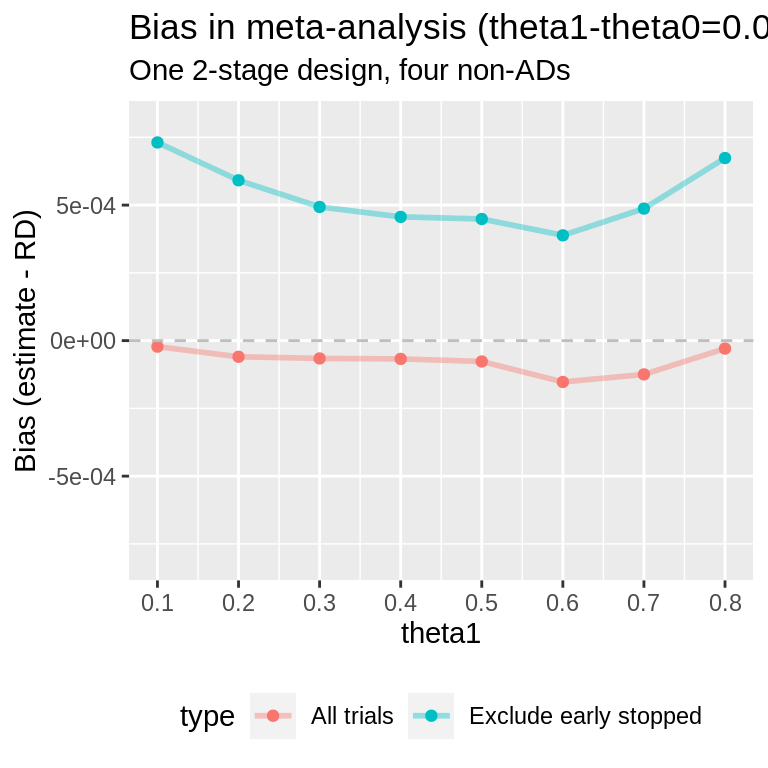
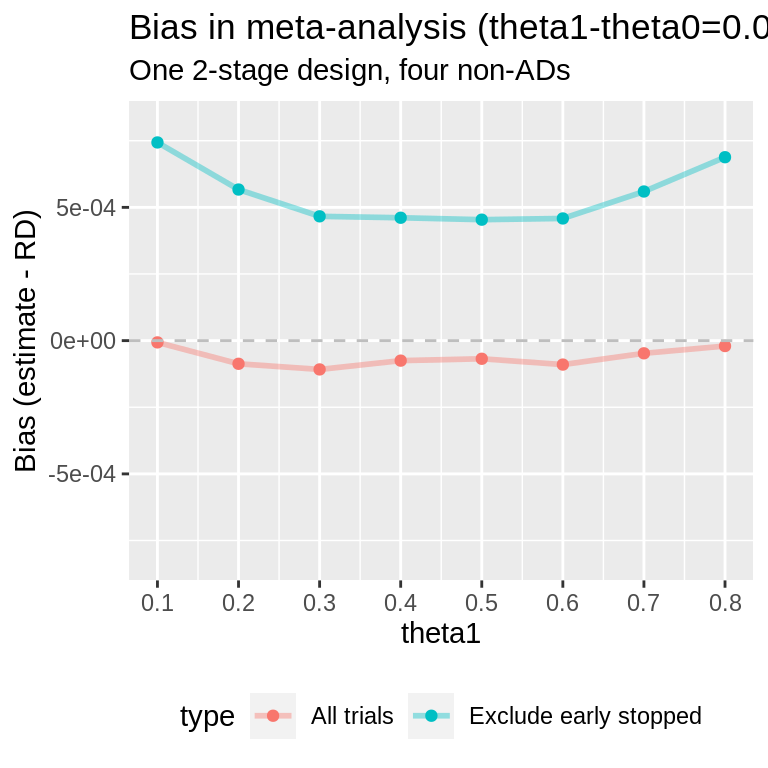
Built site for pwb: 0.0.0.9000@c4ab8c6

diff --git a/articles/GS.html b/articles/GS.html
@@ -92,10 +92,10 @@
 <span>                     nsims<span class="op">=</span><span class="va">nsims</span><span class="op">)</span></span>
 <span>  <span class="va">single.GS</span><span class="op">$</span><span class="va">ests</span><span class="op">[</span>, <span class="fl">1</span><span class="op">:</span><span class="fl">5</span><span class="op">]</span></span>
 <span><span class="co">#&gt;                          nsims    bias mean.SE emp.SE theta</span></span>
-<span><span class="co">#&gt; Stopped early            39253 -0.0453  0.0455 0.0280   0.5</span></span>
-<span><span class="co">#&gt; Complete                 60747  0.0246  0.0421 0.0299   0.5</span></span>
-<span><span class="co">#&gt; All                     100000 -0.0028  0.0435 0.0449   0.5</span></span>
-<span><span class="co">#&gt; All (precision-weghted) 100000 -0.0001  0.0433     NA   0.5</span></span>
+<span><span class="co">#&gt; Stopped early            39401 -0.0450  0.0455 0.0271   0.5</span></span>
+<span><span class="co">#&gt; Complete                 60599  0.0246  0.0421 0.0298   0.5</span></span>
+<span><span class="co">#&gt; All                     100000 -0.0028  0.0435 0.0446   0.5</span></span>
+<span><span class="co">#&gt; All (precision-weghted) 100000 -0.0002  0.0433     NA   0.5</span></span>
 <span>  <span class="fu"><a href="https://rdrr.io/r/base/Round.html" class="external-link">round</a></span><span class="op">(</span><span class="va">single.GS</span><span class="op">$</span><span class="va">mc.error</span>, <span class="fl">5</span><span class="op">)</span></span>
 <span><span class="co">#&gt; [1] 0.00014 0.00010</span></span></code></pre></div>
 <p>How does bias compare when the true response probability is varied? Find results for a vector of true response probabilities:</p>

diff --git a/articles/MA_add_trial.html b/articles/MA_add_trial.html
@@ -143,7 +143,7 @@
 <span><span class="co">#&gt; [1] 0.0001410919</span></span>
 <span></span>
 <span><span class="co"># MCSE:</span></span>
-<span><span class="va">mcse.ex</span> <span class="op">&lt;-</span> <span class="fu"><a href="../reference/MCSEbias.html">MCSEbias</a></span><span class="op">(</span><span class="va">ma.results</span><span class="op">$</span><span class="va">theta.hat</span><span class="op">)</span><span class="op">*</span><span class="fl">1e5</span></span>
+<span><span class="va">mcse.ex</span> <span class="op">&lt;-</span> <span class="fu">pwb</span><span class="fu">::</span><span class="fu"><a href="../reference/MCSEbias.html">MCSEbias</a></span><span class="op">(</span><span class="va">ma.results</span><span class="op">$</span><span class="va">theta.hat</span><span class="op">)</span><span class="op">*</span><span class="fl">1e5</span></span>
 <span><span class="va">mcse.ex</span></span>
 <span><span class="co">#&gt; [1] 5.166525</span></span>
 <span><span class="va">mcse.inc</span> <span class="op">&lt;-</span> <span class="fu"><a href="../reference/MCSEbias.html">MCSEbias</a></span><span class="op">(</span><span class="va">combined.results</span><span class="op">$</span><span class="va">theta.hat</span><span class="op">)</span><span class="op">*</span><span class="fl">1e5</span></span>
